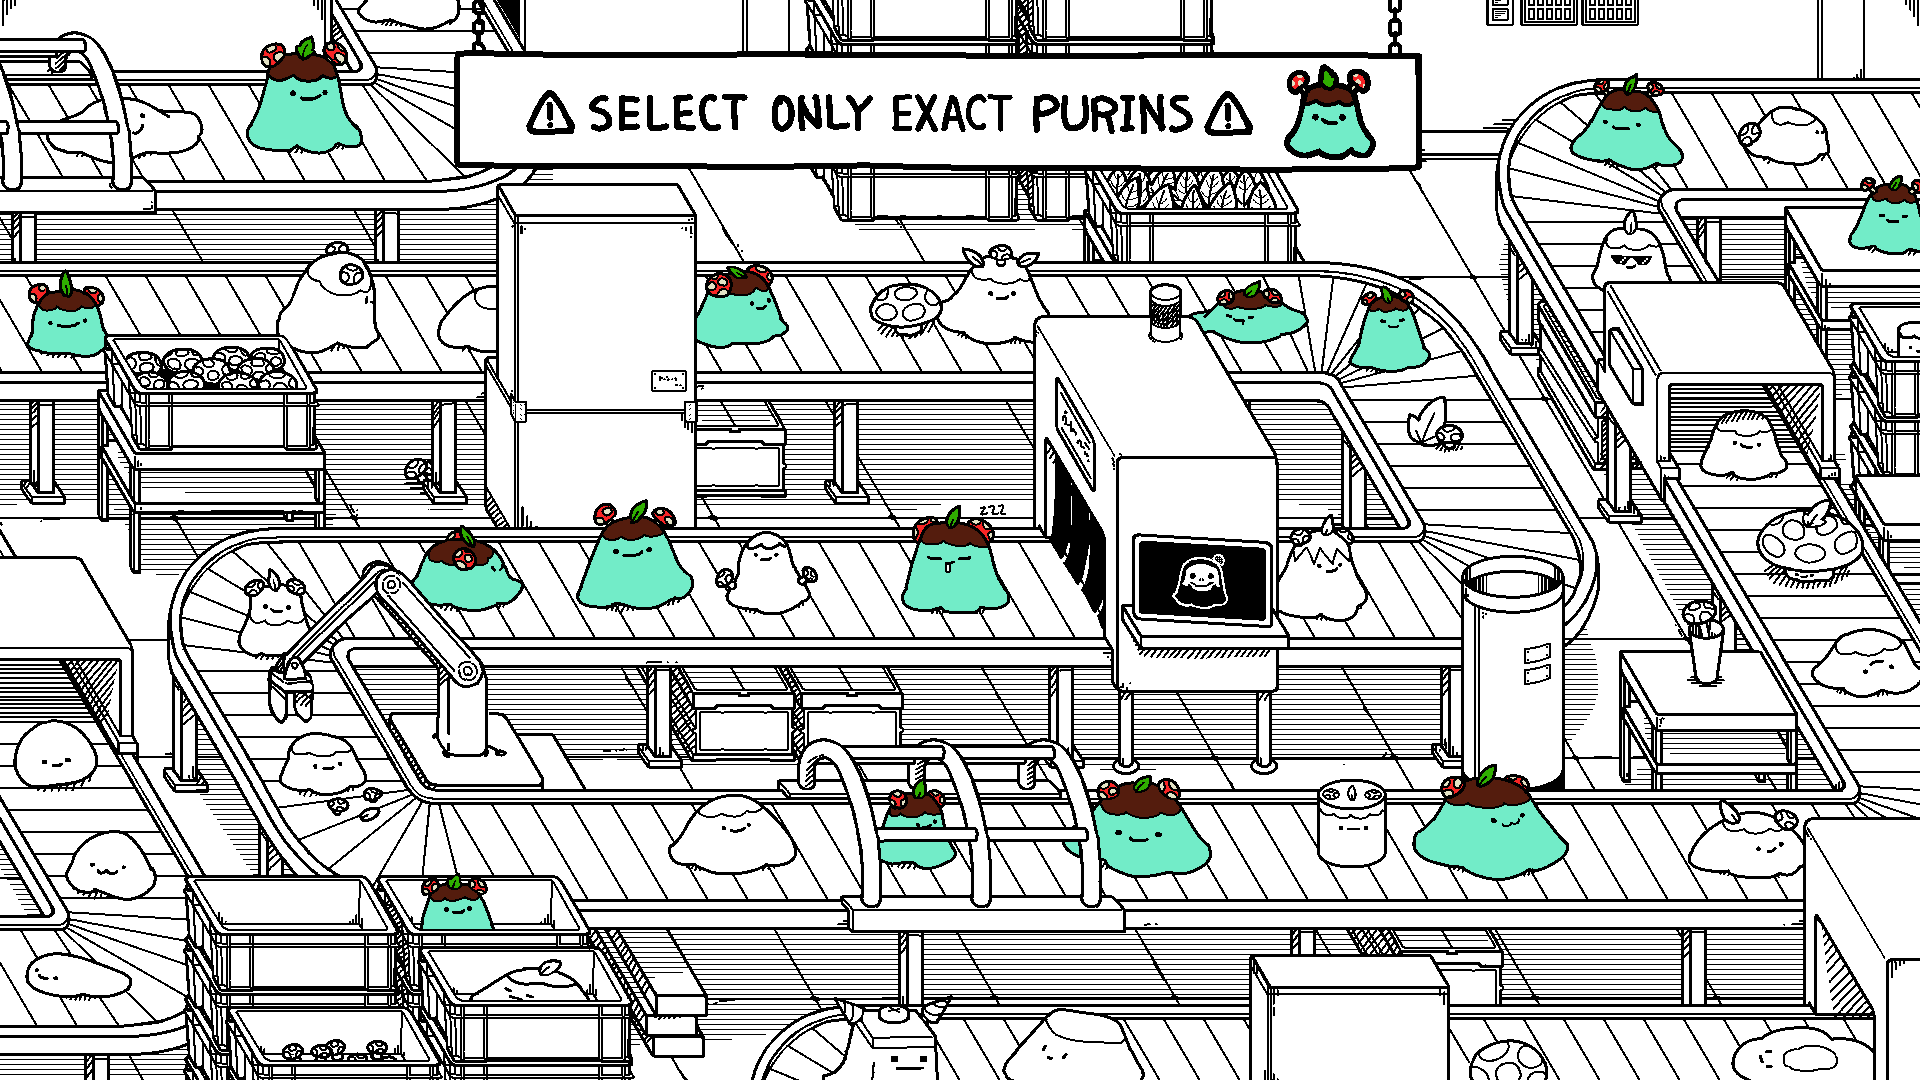
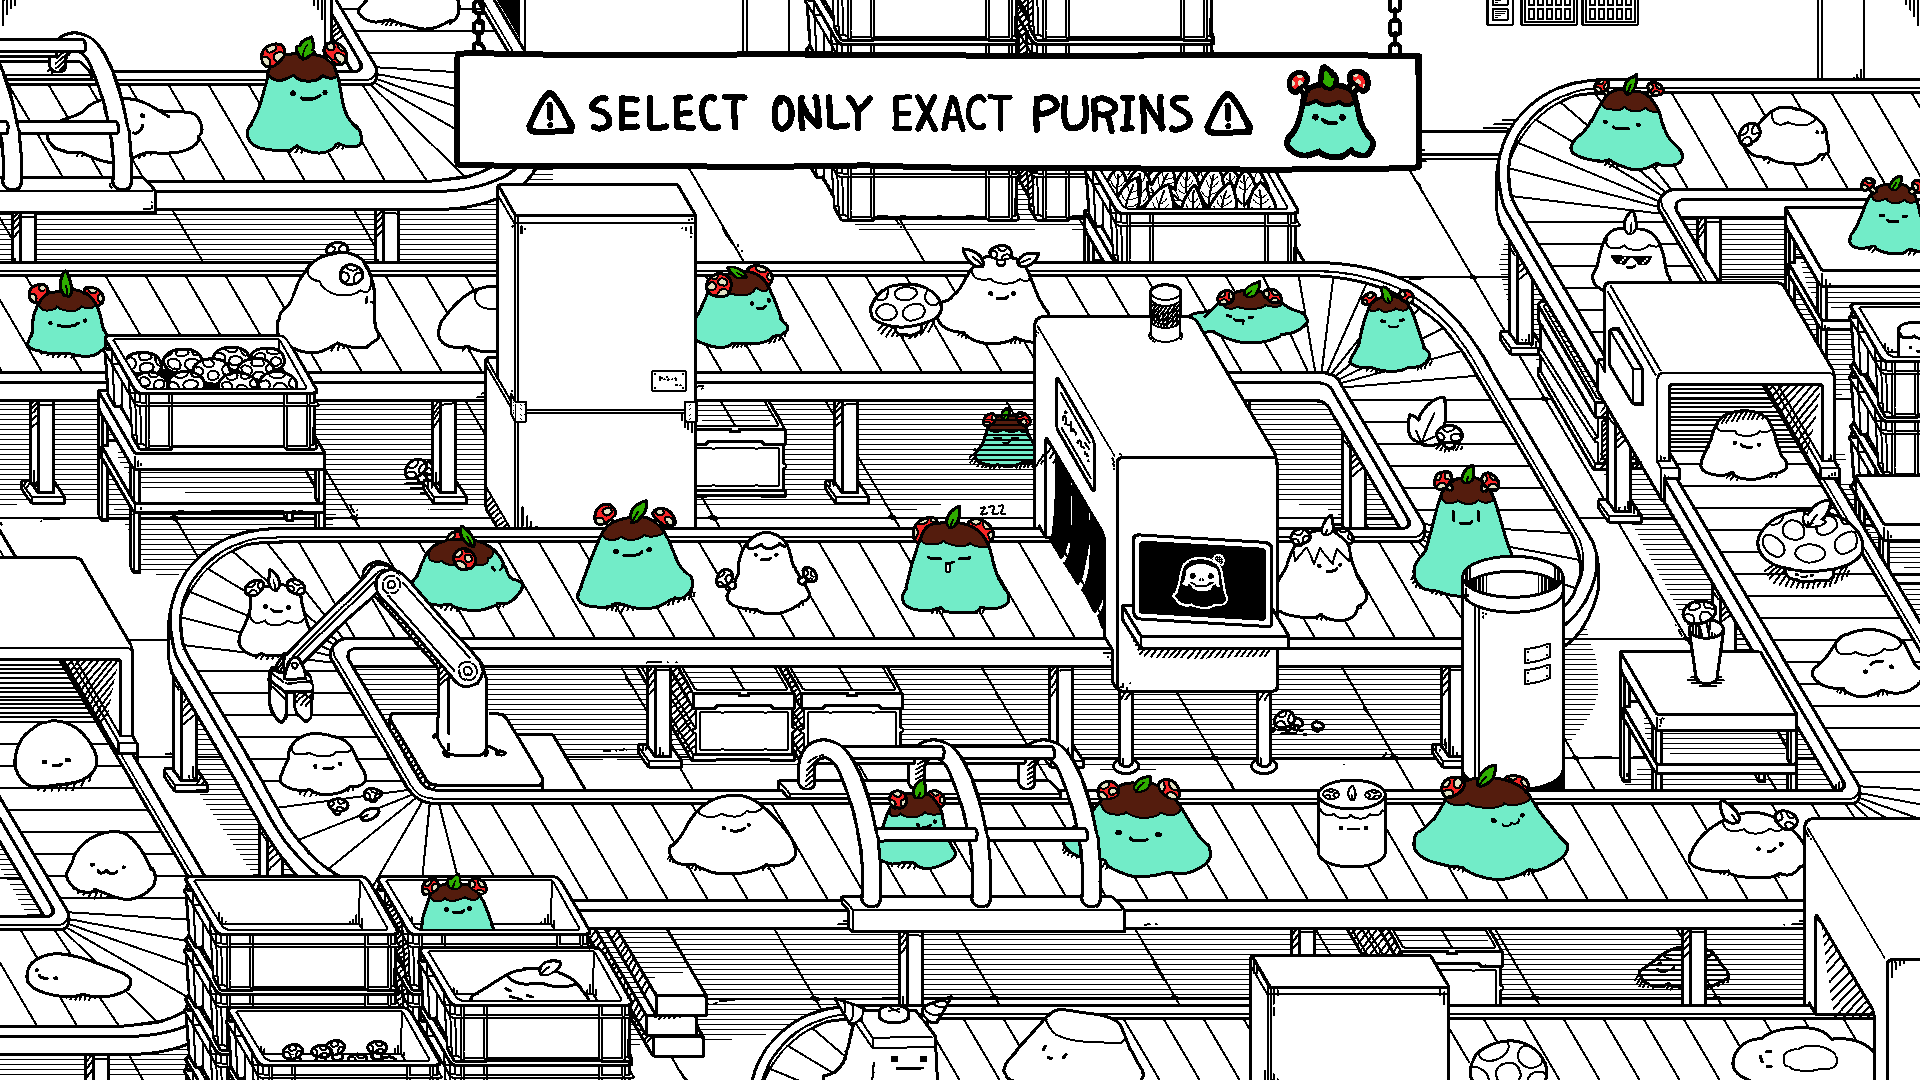
Update purin-factory

diff --git a/src/stages/purin-factory.ts b/src/stages/purin-factory.ts
@@ -319,5 +319,43 @@ export default {
       [1859, 251],
       [1848, 243],
     ]),
+    new Polygon([
+      [1497, 496],
+      [1505, 528],
+      [1514, 557],
+      [1483, 563],
+      [1464, 576],
+      [1464, 597],
+      [1419, 591],
+      [1411, 573],
+      [1420, 553],
+      [1439, 489],
+      [1433, 482],
+      [1439, 468],
+      [1450, 468],
+      [1454, 477],
+      [1469, 459],
+      [1474, 474],
+      [1488, 467],
+      [1500, 479],
+      [1499, 489],
+    ]),
+    new Polygon([
+      [1029, 428],
+      [1034, 443],
+      [1034, 463],
+      [1009, 467],
+      [984, 463],
+      [972, 453],
+      [982, 440],
+      [985, 428],
+      [980, 419],
+      [991, 409],
+      [999, 414],
+      [1009, 405],
+      [1014, 415],
+      [1021, 408],
+      [1031, 418],
+    ]),
   ],
 }
